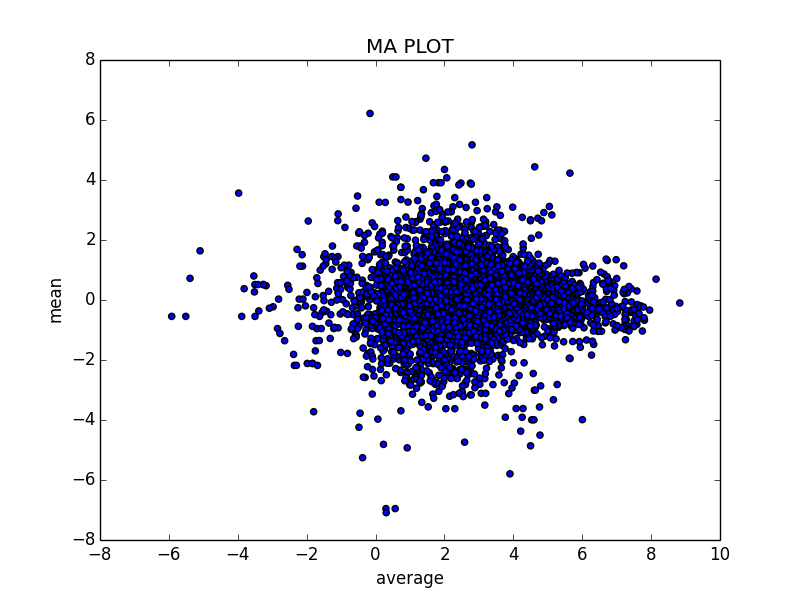
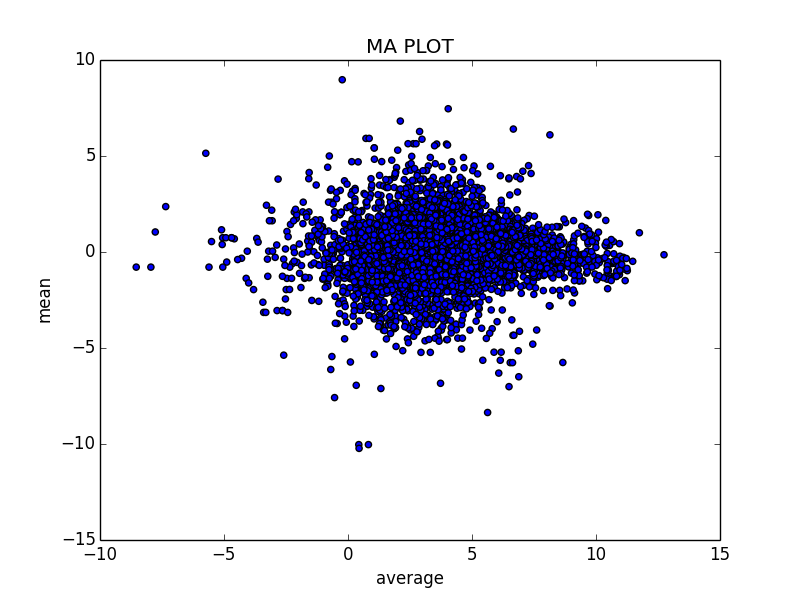
Made changes to the fourth one

diff --git a/day3/day3_lunch_4.py b/day3/day3_lunch_4.py
@@ -4,6 +4,11 @@ import pandas as pd
 import matplotlib.pyplot as plt
 import numpy as np
 
+#MA Plots are used to analyze gene expression from microarray data
+    #if not logged, the data looks very linear; log allows the user to observe data points that aren't on the linear path
+    #by using an MA Plot, we turn the data at a 45 degree angle and compare the average intensity of gene expression to the     mean of gene expression
+ 
+# we need two files to compare and set to zero
 df = pd.read_table("~/qbb2015/stringtie/SRR072893/t_data.ctab")
 df2 = df["FPKM"] > 0 #can't have the [df[df[""]]] here???
 
@@ -20,11 +25,11 @@ mf3 = mf[b1]["FPKM"]
 
 #print mf3 check work again
 
-df4 = np.log(df3)
-mf4 = np.log(mf3)
+df4 = np.log2(df3) #this takes the log base 2 of the data
+mf4 = np.log2(mf3)
 
-m = df4 - mf4
-a = 0.5 * (df4 + mf4)
+m = df4 - mf4 #mean of intensity
+a = 0.5 * (df4 + mf4) #average intensity
 
 plt.figure()
 plt.scatter(a, m)
